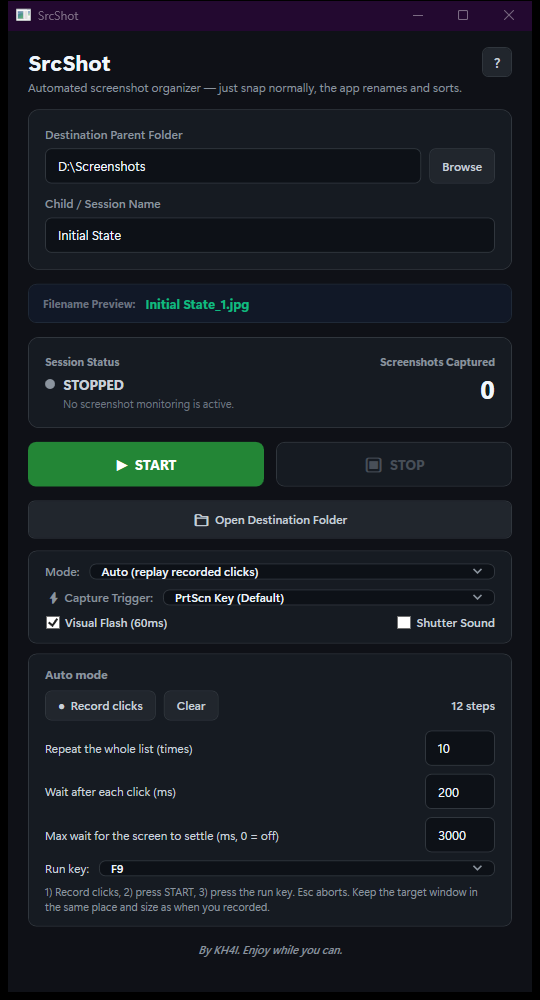
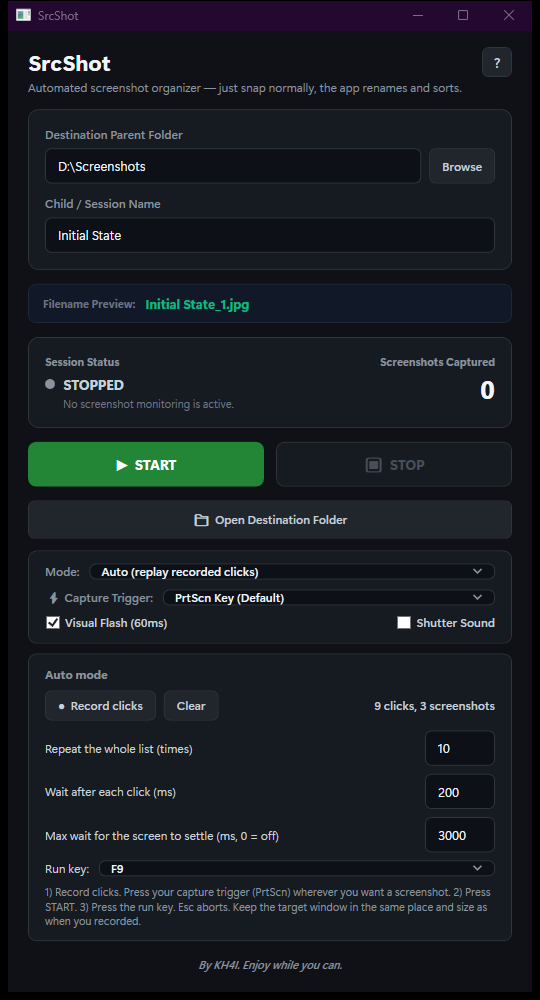
Explain screenshot marks and refresh the Auto screenshot

Changed region(s): [[0.0889, 0.868, 0.9185, 0.992], [0.7111, 0.682, 0.9185, 0.713]]

diff --git a/README.md b/README.md
@@ -35,9 +35,10 @@ Some jobs mean clicking through the same list of screens again and again. Auto m
 <p align="center"><img src="docs/auto.png" alt="SrcShot in Auto mode" width="300"></p>
 
 1. Press **Record clicks** and click through the screens in your usual order. SrcShot remembers each position.
-2. Press **START**, then the run key (F9 by default).
-3. It clicks the first spot, waits for the screen to stop changing, takes the screenshot, and moves on until the list ends. **Repeat** runs the whole list again and again.
-4. **Esc** stops it at any moment.
+2. Press the capture trigger (PrtScn) wherever you want a screenshot, for example once a deep menu has opened the screen you need. Clicks before that mark just open menus and are not screenshotted.
+3. Press **START**, then the run key (F9 by default).
+4. It replays the clicks and takes a full-screen screenshot at each mark, once the screen has stopped changing. **Repeat** runs the whole list again and again.
+5. **Esc** stops it at any moment.
 
 Instead of a fixed delay, it compares the screen every 100 ms and only shoots once the picture is still, so slow pages get time and fast pages do not wait. Manual mode still works exactly as before.
 
